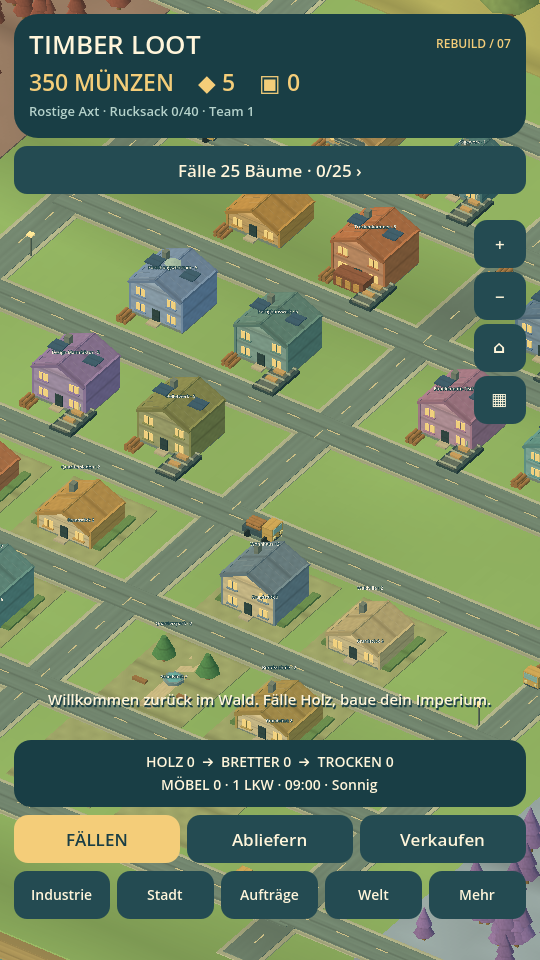
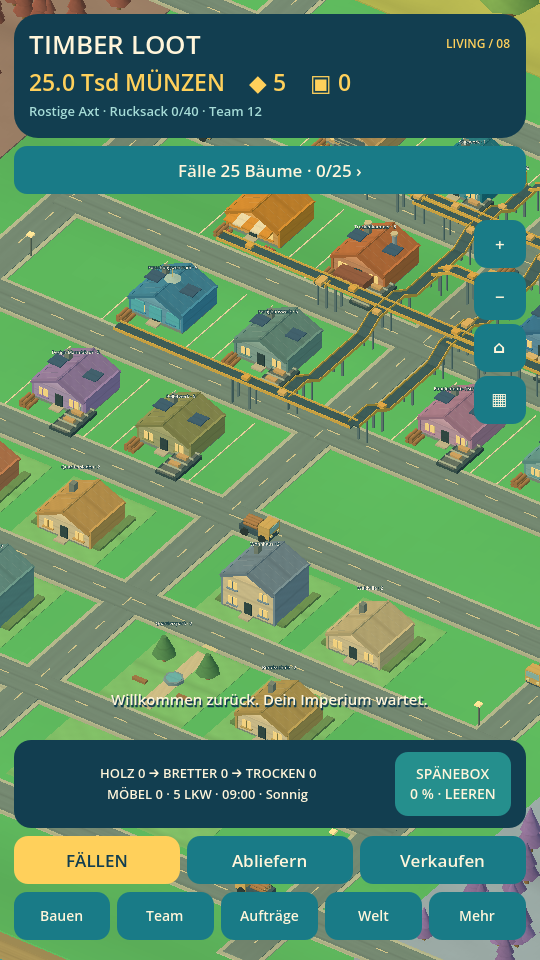
Verify placement and onboarding, preserve legacy saves, and finish Living Industry UI

diff --git a/scripts/build_android.py b/scripts/build_android.py
@@ -23,6 +23,12 @@ output = args.output.resolve()
 def run(command, **kwargs):
     return subprocess.check_output([str(x) for x in command], text=True, stderr=subprocess.STDOUT, **kwargs)
 
+source_commit = None
+if not args.verify_only:
+    source_commit = run(['git','rev-parse','HEAD'],cwd=ROOT).strip()
+elif output.with_suffix('.apk.json').exists():
+    source_commit = json.loads(output.with_suffix('.apk.json').read_text()).get('source_commit')
+
 if not args.verify_only:
     subprocess.run([sys.executable, ROOT / 'scripts/setup_android.py'], check=True)
     java = Path(os.environ.get('JAVA_HOME', Path(shutil.which('java')).resolve().parents[1]))
@@ -77,6 +83,7 @@ report = {'file':output.name,'bytes':output.stat().st_size,
     'version':'0.8.0-test','package':'com.whiskymitschuss.timberloot',
     'android_min_api':24,'architectures':['arm64-v8a','armeabi-v7a'],
     'debug_signed':True,'zipalign_16k':True,'permissions':[],
+    'source_commit':source_commit,
     'device_install_or_launch_tested':False}
 output.with_suffix('.apk.json').write_text(json.dumps(report,indent=2)+'\n')
 print(json.dumps(report,indent=2))

diff --git a/README.md b/README.md
@@ -1,10 +1,10 @@
-# Timber Loot Tycoon — Rebuild 0.7
+# Timber Loot Tycoon — Living Industry 0.8
 
 Spielbarer Godot-4.6-Wiederaufbau mit eigener Low-Poly-Grafik, prozeduralen Texturen und erzeugten Soundeffekten. Die Holzindustrie wächst zu einer Stadt mit Immobilien und Großprojekten. Der frühere Quellstand ist nicht verfügbar; dieses Projekt setzt die Anforderungen aus dem Chat neu um. Entwicklungsfassung, keine nachgewiesen marktreife App.
 
 ## Auf dem Handy testen
 
-Die signierte Android-Test-APK liegt nach dem Build unter **[releases/Timber-Loot-Tycoon-v0.7-test.apk](releases/Timber-Loot-Tycoon-v0.7-test.apk)**. Auf GitHub die Datei öffnen und **Download raw file** wählen. Android 7.0+, ARM64/ARMv7, OpenGL ES 3.0; etwa 54 MiB. Die APK verlangt keine Android-Berechtigungen. Details: [Android-Test](docs/ANDROID.md).
+Die signierte Android-Test-APK liegt nach dem Build unter **[releases/Timber-Loot-Tycoon-v0.8-test.apk](releases/Timber-Loot-Tycoon-v0.8-test.apk)**. Auf GitHub die Datei öffnen und **Download raw file** wählen. Android 7.0+, ARM64/ARMv7, OpenGL ES 3.0; etwa 54 MiB. Die APK verlangt keine Android-Berechtigungen. Details: [Android-Test](docs/ANDROID.md).
 
 ## Spielen und entwickeln
 
@@ -19,10 +19,19 @@ python3 scripts/backup.py
 
 Der Android-Helfer lädt offizielle, fest versionierte und per Prüfsumme verifizierte Exportvorlagen und SDK-Pakete. Java mit `keytool` und Godot müssen bereits vorhanden sein. Cache, Editor-Konfiguration und Testsignaturschlüssel liegen außerhalb des Quellprojekts unter `/workspace/.timber-runtime`. Alternative Laufzeitpfade können über die im Skript dokumentierten Umgebungsvariablen gesetzt werden. Keine Gradle-Abhängigkeiten oder Benutzer-Zugangsdaten erforderlich.
 
+## Neu in 0.8
+
+- Kräftigere Farben, unterscheidbare Betriebsdetails, helle Menükarten, direkter Baukatalog mit Produktion/Wohnen/Versorgung und mehr Platz auf hohen Handybildschirmen.
+- Neue Gebäude in der Welt platzieren und in 90°-Schritten drehen. Grüne/rote Vorschau, Prüfung gegen Straßen und andere Gebäude, keine Bezahlung vor Bestätigung. Bestehende Betriebe und Häuser kostenlos verschieben; Positionen und Bauaufträge bleiben gespeichert. Der Baumodus nutzt das zentrale Baugebiet innerhalb der Hauptstraßen.
+- Sichtbare automatisch geroutete Förderstrecken umgehen Gebäude und überbrücken Straßen. Güter bewegen sich bei aktiver Produktion. Die Wirtschaft verwendet weiterhin gemeinsame Materialpuffer; Förderstrecken sind keine zusätzliche Waren- oder Stausimulation.
+- Spänebox mit Füllstand am Sägewerk und direktem Zugriff unten. Bestand manuell leeren und verkaufen oder für Pellets/Papier halten. Bei voller Box bleibt der gespeicherte Vorrat erhalten; nur neu anfallender Überlauf wird kompostiert. Optional lässt sich dieser Überlauf stattdessen verkaufen. Die Bretterproduktion stoppt deswegen nicht mehr.
+- Willkommen und vier praktische Einführungsschritte für neue Profile. Bestehende 0.7-Spielstände behalten ihren Fortschritt und bekommen keine verpflichtende Einführung. Hilfe ist unter Mehr erreichbar.
+- Betrieb antippen: Produktionszustand, Ausbau und Verschieben direkt erreichbar. Nebel schwächer, korrigierte Ganzzahlanzeigen, Schutz vor doppelten emulierten Mausklicks auf Touchgeräten.
+
 ## Spielumfang
 
 - Zusammenhängende Landschaft von 400 × 390 Einheiten, zehn Biome, 1.000 instanzierte Bäume, zehn sichtbare Bossbäume. Straßen und Projektzufahrten bleiben auf Land. Bäume wachsen nach; Holzfäller sind in begrenzter Anzahl sichtbar.
-- 16 Industrieflächen, mehrere Betriebe desselben Typs und unabhängige Upgrades. Sammelstation, Lager, Hütten, Sägewerke, Trocknung, Möbelfabrik, Garage, Forschung, Fertighauswerk, Tischlerei, Pellet-, Papier- und Designmöbel-Produktion.
+- Bis zu 24 frei platzierbare Industriebetriebe, mehrere Betriebe desselben Typs und unabhängige Upgrades. Sammelstation, Lager, Hütten, Sägewerke, Trocknung, Möbelfabrik, Garage, Forschung, Fertighauswerk, Tischlerei, Pellet-, Papier- und Designmöbel-Produktion.
 - Echte Ressourcenbilanzen, faire gemeinsame Materialzuteilung, sichtbare laufende Fördergüter und Sägen, Bauzeit, Gerüste und Kräne. Bestehende Betriebe produzieren während Upgrades weiter.
 - Zwölf Stadtgrundstücke in drei erschließbaren Regionen. Zehn Gebäudetypen: Häuser, Laden, Wohnhaus, Villa, Hotel, Büros, Park, Schule, Klinik, Feuerwehr. Bis Stufe zehn, Miete, Bewohner und öffentliche Boni.
 - Materialplaner für ein Stadthaus: Bestände und Kosten, Schutz vor automatischem Verbrauch, optional genau ein automatischer Bauauftrag. Manuelle Verkäufe bleiben möglich.
@@ -44,9 +53,9 @@ Die automatisierte Progressionsprüfung erreicht das erste Haus aus einem frisch
 
 ## Prüfung und Grenzen
 
-`bash scripts/test.sh` verwendet temporäre Spielstände: 207 Regelprüfungen, ein frischer Verlauf bis zum ersten Haus, 4.135 Szenen-/Geometrieprüfungen sowie ein abschließender Headless-Start. [Prüfbericht](docs/VALIDATION.md). Die Bilder unter `docs/` stammen aus dem Spiel; die Stadtansicht verwendet ausdrücklich einen nur für das Bild aufgebauten Demonstrationsstand.
+`bash scripts/test.sh` verwendet temporäre Spielstände: 220 Regelprüfungen, ein frischer Verlauf bis zum ersten Haus, 4.135 Szenen-/Geometrieprüfungen 54 Platzierungs-/Tutorialprüfungen sowie ein abschließender Headless-Start. [Prüfbericht](docs/VALIDATION.md). Die Bilder unter `docs/` stammen aus dem Spiel; die Stadtansicht verwendet ausdrücklich einen nur für das Bild aufgebauten Demonstrationsstand.
 
-Noch offen: reale Android-Gerätetests für Touch, Safe Area, Hintergrund, Temperatur und Akku; 50-Stunden-Balancing, Barrierefreiheit, Release-Signierung, iOS und Store-Abnahme. Freies Straßenzeichnen, freie Gebäudeplatzierung, Immobilienverkauf/Umbau, vollständig simulierte Bahn-/Schifffahrt und eigene Musik pro Biom sind noch nicht enthalten. Fahrzeuge verwenden derzeit ein gemeinsames LKW-Modell; höhere Stufen verändern Geschwindigkeit und Kapazität. Geldscheine und einige seltene Baupläne haben noch keinen eigenen Ausgabepfad. Großprojekte verwenden Standortmodelle; es gibt noch keinen echten Hafenverkehr. Keine Werbung, In-App-Käufe oder Cloud-Spielstandsynchronisierung.
+Noch offen: reale Android-Gerätetests für Touch, Safe Area, Hintergrund, Temperatur und Akku; 50-Stunden-Balancing, Barrierefreiheit, Release-Signierung, iOS und Store-Abnahme. Freies Straßenzeichnen, Immobilienverkauf/Umbau, vollständig simulierte Bahn-/Schifffahrt und eigene Musik pro Biom sind noch nicht enthalten. Fahrzeuge verwenden derzeit ein gemeinsames LKW-Modell; höhere Stufen verändern Geschwindigkeit und Kapazität. Geldscheine und einige seltene Baupläne haben noch keinen eigenen Ausgabepfad. Großprojekte verwenden Standortmodelle; es gibt noch keinen echten Hafenverkehr. Keine Werbung, In-App-Käufe oder Cloud-Spielstandsynchronisierung.
 
 ## Sicherung
 

diff --git a/docs/VALIDATION.md b/docs/VALIDATION.md
@@ -1,3 +1,14 @@
+# Prüfung 0.8 — Living Industry
+
+- 220 Regelprüfungen: zusätzlich volles Sägespäne-Lager, korrekte Überlaufmenge, optionaler Verkauf, Weiterverarbeitung und Wiederanlauf einer gespeicherten Firma mit 2.500 Holz/Sägespänen. Restore kopiert Daten unabhängig, ohne den geladenen Ausgangsstand zu verändern.
+- 54 Platzierungs-/Einführungsprüfungen: Straßen/Wasser/Überlappung, kostenlose abgebrochene Vorschau, bezahlte Baustelle, gesperrte doppelte Platzierung, Rotation und gespeicherter Standort, kostenloses Verschieben samt Erhalt von Stufe/Geld, frei positionierte Häuser, altes Profil ohne Zwangstutorial, neue Einführung, Spänebox und Förderverbindungen mit Straßendurchfahrt.
+- Weiterhin 4.135 Szenen-/Geometrieprüfungen, frischer Verlauf bis zum ersten Haus und abschließender Hauptszenenstart.
+- OpenGL-Bilder von frischer Welt, Baukatalog, Platzierungsvorschau, Willkommen und ausgebautem Demonstrationsstand geprüft.
+- Android-Updateprüfung: neue Versionsnummer 800, unveränderte Paketkennung und bisheriger Testsignaturschlüssel. Paket- und Downloadprüfung werden beim finalen Export erneut ausgeführt.
+- Grenzen: echte Touch-/Installations-/Leistungsprüfung auf einem Telefon bleibt offen. Förderstrecken zeigen aktive Produktion und gemeinsame Materialpuffer; es gibt keine zusätzliche Fahrzeugkollision oder diskrete Simulation jedes einzelnen Bretts.
+
+Der folgende Bericht dokumentiert den ursprünglichen 0.7-Meilenstein; seine Hashwerte beziehen sich auf diese ältere Fassung.
+
 # Prüfbericht zum Wiederaufbau
 
 Stand: 19. Oktober 2026. Godot 4.6.3, GDScript; Version 0.7.0-test.

diff --git a/docs/ANDROID.md b/docs/ANDROID.md
@@ -1,10 +1,14 @@
-# Android-Test 0.7.0
+# Android-Test 0.8.0
 
-Die Test-App heißt **Timber Loot**, Paket `com.whiskymitschuss.timberloot`. Sie benötigt Android 7.0 oder neuer und ein ARM64-/ARMv7-Gerät mit OpenGL ES 3.0. Die Version ist `0.7.0-test`, Versionscode 700. Keine Android-Berechtigungen, keine Werbung, keine Kontenpflicht.
+Die Test-App heißt **Timber Loot**, Paket `com.whiskymitschuss.timberloot`. Sie benötigt Android 7.0 oder neuer und ein ARM64-/ARMv7-Gerät mit OpenGL ES 3.0. Die Version ist `0.8.0-test`, Versionscode 800. Keine Android-Berechtigungen, keine Werbung, keine Kontenpflicht.
+
+## Update von 0.7
+
+Die Paketkennung, der lokale Testsignaturschlüssel und der Speicherpfad bleiben gleich. Die neue APK als Update über die vorhandene App installieren; nicht deinstallieren und keine App-Daten löschen. Schema-1-Spielstände bleiben kompatibel. Vor Auslieferung wird die Signatur mit der bisherigen 0.7-APK verglichen. Ein echter Update-Installationsversuch auf einem Telefon bleibt offen.
 
 ## Installation nur mit dem Handy
 
-1. Auf GitHub `releases/Timber-Loot-Tycoon-v0.7-test.apk` öffnen. Bei einem privaten Repository mit dem berechtigten GitHub-Konto anmelden.
+1. Auf GitHub `releases/Timber-Loot-Tycoon-v0.8-test.apk` öffnen. Bei einem privaten Repository mit dem berechtigten GitHub-Konto anmelden.
 2. **Download raw file** bzw. das Download-Symbol wählen. Die APK vollständig herunterladen.
 3. Im Handy-Dateimanager **Downloads** öffnen und die APK antippen.
 4. Falls Android nachfragt, dem Browser/Dateimanager **Installation aus dieser Quelle** erlauben; danach **Installieren → Öffnen**.
